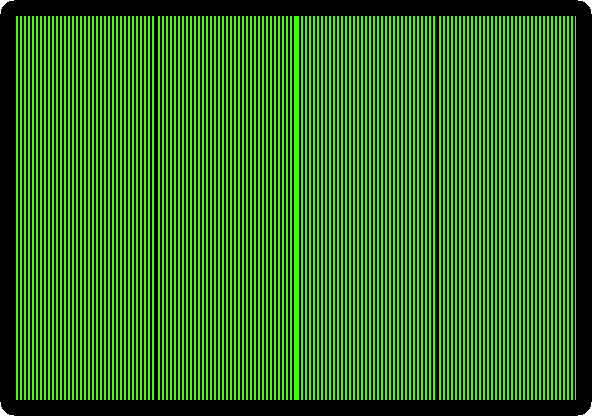
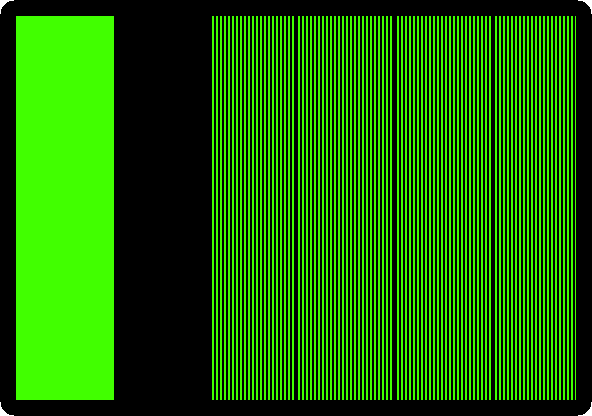
Paint the six colours, black and white too, not only four
The bands showed the four colours of the high resolution graphics, violet,
green, blue and orange, but not black and white, which are two of the six.

diff --git a/guides/six-colours.md b/guides/six-colours.md
@@ -15,8 +15,7 @@ the note went on with the steps, from taking the board out of its case. The
 later boards have it: with the eighth bit set, violet and green are blue and
 orange.
 
-This page paints the high resolution graphics in bands, with the eighth bit
-and without it, on a first Apple \]\[ and on one of a later board, and looks
+This page paints the high resolution graphics in a band of each colour, on a first Apple \]\[ and on one of a later board, and looks
 at the dots of the later one on a green monitor, where the colours are gone
 and the shift is left.
 
@@ -59,25 +58,29 @@ izapple2 -model none -board 2plus -cpu 6502 -screen color \
    Monitor, with its prompt, `*`. **Press Control-B and Return** for Integer
    BASIC, with its prompt, `>`.
 
-2. **Type this program**, which paints the high resolution graphics in four
-   bands, the last two with the eighth bit set:
+2. **Type this program**, which paints the high resolution graphics in six
+   bands: white, black, and four of colour, the last two with the eighth bit
+   set:
 
    ```basic
    10 POKE -16304,0: POKE -16297,0: POKE -16302,0
    20 FOR C=0 TO 119
-   30 B=C MOD 40/10:V=85: IF B MOD 2#C MOD 2 THEN V=42
-   40 IF B>1 THEN V=V+128
-   50 FOR A=8192+C TO 16383 STEP 128: POKE A,V: NEXT A
-   60 NEXT C
-   70 END
+   30 B=(C MOD 40)*6/40:V=85: IF B MOD 2#C MOD 2 THEN V=42
+   40 IF B>3 THEN V=V+128
+   50 IF B=0 THEN V=127
+   60 IF B=1 THEN V=0
+   70 FOR A=8192+C TO 16383 STEP 128: POKE A,V: NEXT A
+   80 NEXT C
+   90 END
    ```
 
    The `POKE`s of line 10 switch the screen to the high resolution graphics,
    all of it, with no lines of text. The screen is 8 KB of memory from 8192,
    in blocks of 128 bytes, each with three lines of 40 bytes. `C` goes
-   through the 120 bytes of a block and `B` is its band, of 10 bytes. `85`
-   and `42` alternate the dots so that the band is of a colour, and `128`
-   is the eighth bit. Line 50 puts the byte in its place in each of the 64
+   through the 120 bytes of a block and `B` is its band, of 6 or 7 bytes.
+   `85` and `42` alternate the dots so that the band is of a colour, and
+   `128` is the eighth bit; `127` lights all seven dots of a byte, white,
+   and `0` none, black. Line 70 puts the byte in its place in each of the 64
    blocks. It is also in this repository,
    [listings/colours.bas](listings/colours.bas).
 
@@ -85,7 +88,8 @@ izapple2 -model none -board 2plus -cpu 6502 -screen color \
 
    ![The colours of the Revision 0](images/six-colours/revision-0.png)
 
-   Violet, green, violet and green: the eighth bit changes nothing.
+   White and black, then violet, green, violet and green: the eighth bit
+   changes nothing.
 
 ## Six colours
 
@@ -94,23 +98,23 @@ izapple2 -model none -board 2plus -cpu 6502 -screen color \
 
    ![The colours of a later board](images/six-colours/revision-1.png)
 
-   Violet, green, blue and orange, and black and white: the six colours of
-   the high resolution graphics of every Apple \]\[ since.
+   White, black, violet, green, blue and orange: the six colours of the high
+   resolution graphics of every Apple \]\[ since.
 
 5. **Press F6** for the green monitor, which shows the dots and not their
    colours:
 
-   ![The dots of the four bands](images/six-colours/revision-1-green.png)
+   ![The dots of the six bands](images/six-colours/revision-1-green.png)
 
-   The four bands are alike, every other dot lit; from violet to green they
-   move by one dot. What the eighth bit does is to show the seven dots of
+   White is every dot lit and black none. The four bands of colour are
+   alike, every other dot lit; from violet to green they move by one dot. What the eighth bit does is to show the seven dots of
    its byte half a dot later.
    The television sees a colour in where the dots fall against its colour
    signal, which turns once in every two dots: half a dot later is a quarter
    of a turn, the "90 degree phase shift" of Wozniak's note, and two other
-   colours. Where the third band starts, the last dot of the second, lit,
-   runs on into the half dot until the first of the third, in a line wider
-   than the rest.
+   colours. Where blue starts, the last dot of green, unlit, runs on into
+   the half dot until the first of blue, unlit too, in a line of black
+   wider than the rest.
 
 ## What next
 
